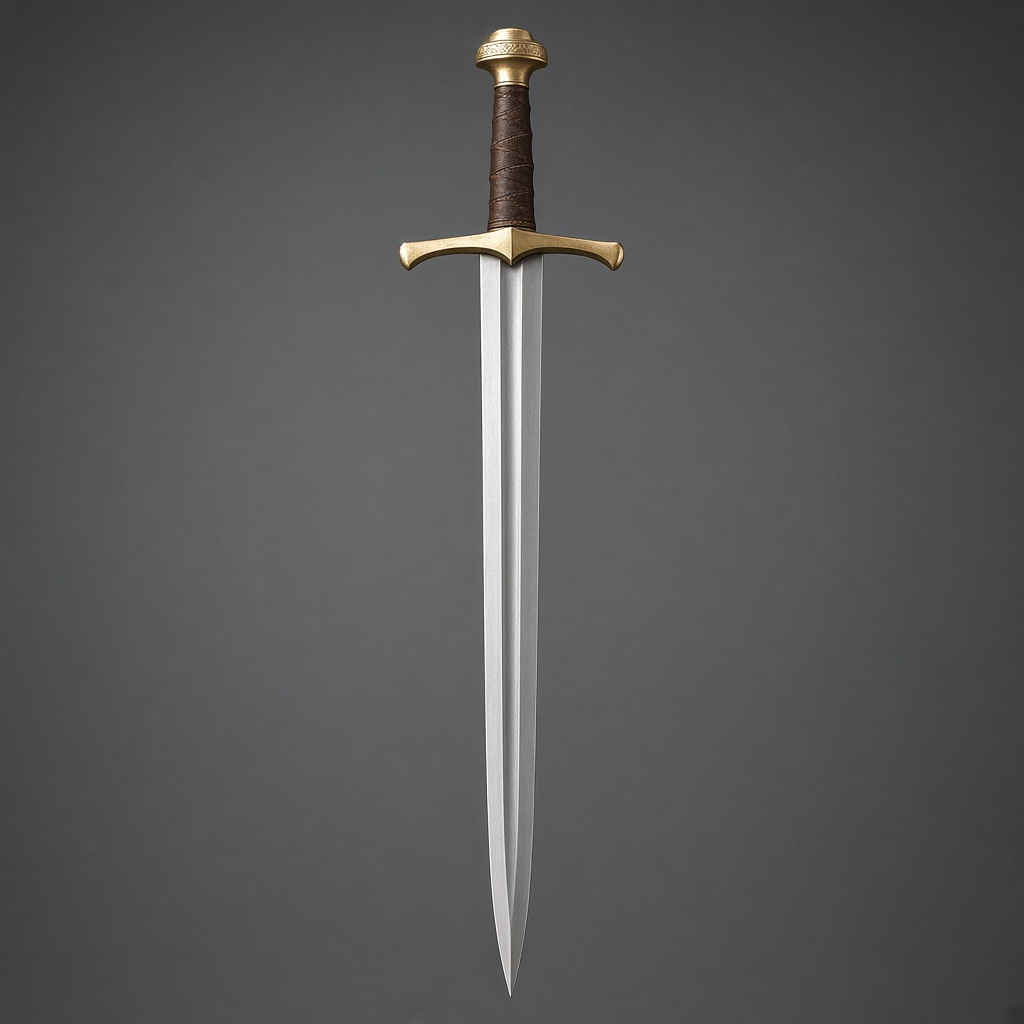
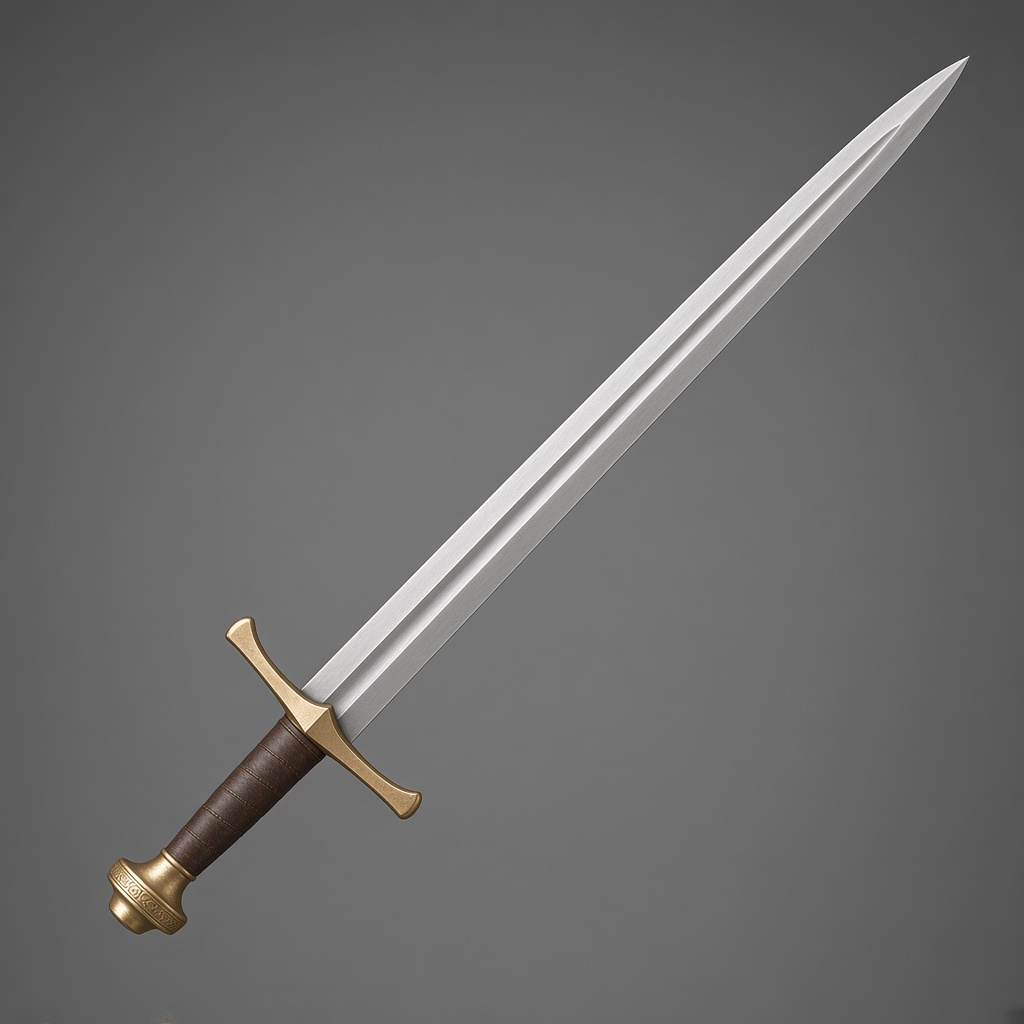
装備の剣を、柄が下の斜めにする

Changed region(s): [[0.0, 0.0312, 1.0, 1.0], [0.9375, 0.0, 1.0, 0.0312], [0.9688, 0.0625, 1.0, 0.0938]]

diff --git a/index.html b/index.html
@@ -1617,8 +1617,8 @@
     }
 
     const GEAR_ITEMS = [
-      { id: "short-sword", name: "ショートソード", slot: "sword", stars: 1, atk: 2, effect: "★　ATK+2", image: "gear-short-sword.jpg" },
-      { id: "long-sword", name: "ロングソード", slot: "sword", stars: 1, atk: 2, effect: "★　ATK+2", image: "gear-long-sword.jpg" },
+      { id: "short-sword", name: "ショートソード", slot: "sword", stars: 1, atk: 2, effect: "★　ATK+2", image: "gear-short-sword.jpg?v=2?v=2" },
+      { id: "long-sword", name: "ロングソード", slot: "sword", stars: 1, atk: 2, effect: "★　ATK+2", image: "gear-long-sword.jpg?v=2?v=2" },
       { id: "buckler", name: "バックラー", slot: "shield", stars: 1, def: 2, effect: "★　DEF+2", image: "gear-buckler.jpg" },
       { id: "leather-shield", name: "皮の盾", slot: "shield", stars: 1, def: 1, effect: "★　DEF+1", image: "gear-leather-shield.jpg" },
       { id: "iron-shield", name: "鉄の盾", slot: "shield", stars: 1, def: 2, effect: "★　DEF+2", image: "gear-iron-shield.jpg" },
@@ -2712,7 +2712,7 @@
               <p>HP 30　ATK+2　DEF+2</p>
               <h2>初期装備</h2>
               <div class="cast-gear">
-                <figure><img src="gear-short-sword.jpg" alt=""><figcaption>ショートソード</figcaption></figure>
+                <figure><img src="gear-short-sword.jpg?v=2" alt=""><figcaption>ショートソード</figcaption></figure>
                 <figure><img src="gear-buckler.jpg" alt=""><figcaption>バックラー</figcaption></figure>
               </div>
               <h2>初期デッキ</h2>
@@ -2771,8 +2771,8 @@
             <img class="sheet-art" src="title-party.jpg" alt="タイトル。四人がわいわいしている。">
             <h3>装備</h3>
             <div class="ref-grid">
-              <figure><img src="gear-short-sword.jpg" alt=""><figcaption>ショートソード</figcaption></figure>
-              <figure><img src="gear-long-sword.jpg" alt=""><figcaption>ロングソード</figcaption></figure>
+              <figure><img src="gear-short-sword.jpg?v=2" alt=""><figcaption>ショートソード</figcaption></figure>
+              <figure><img src="gear-long-sword.jpg?v=2" alt=""><figcaption>ロングソード</figcaption></figure>
               <figure><img src="gear-buckler.jpg" alt=""><figcaption>バックラー</figcaption></figure>
               <figure><img src="gear-leather-shield.jpg" alt=""><figcaption>皮の盾</figcaption></figure>
               <figure><img src="gear-iron-shield.jpg" alt=""><figcaption>鉄の盾</figcaption></figure>
